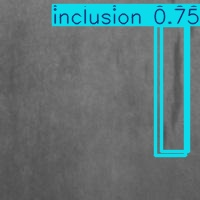
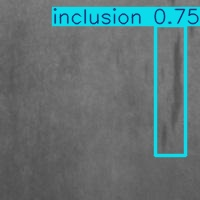
Polish inference pipeline and add documentation

Changed region(s): [[0.78, 0.12, 0.96, 0.78], [0.24, 0.0, 1.0, 0.06]]

diff --git a/src/predict.py b/src/predict.py
@@ -9,7 +9,8 @@ def run_inference(
     image_path: str,
     model_path: str = "models/yolov8s_neu_det_best.pt",
     output_dir: str = "results/inference_samples",
-    conf: float = 0.25
+    conf: float = 0.25,
+    iou: float = 0.45
 ):
     image_path = Path(image_path)
     model_path = Path(model_path)
@@ -28,6 +29,7 @@ def run_inference(
     results = model.predict(
         source=str(image_path),
         conf=conf,
+        iou=iou,
         imgsz=640,
         save=False,
         verbose=False
@@ -57,6 +59,21 @@ def run_inference(
             ]
         })
 
+    detections = sorted(
+        detections,
+        key=lambda item: item["confidence"],
+        reverse=True
+    )
+
+    class_counts = {}
+
+    for det in detections:
+        class_name = det["class_name"]
+        class_counts[class_name] = class_counts.get(class_name, 0) + 1
+
+    inspection_status = "DEFECT_DETECTED" if len(detections) > 0 else "NO_DEFECT_DETECTED"
+    top_detection = detections[0] if detections else None
+
     annotated_image = result.plot()
 
     output_image_path = output_dir / f"{image_path.stem}_prediction.jpg"
@@ -65,11 +82,19 @@ def run_inference(
     cv2.imwrite(str(output_image_path), annotated_image)
 
     prediction_result = {
+        "project": "Smart Factory AI Inspector",
+        "image_name": image_path.name,
         "image_path": str(image_path),
         "model_path": str(model_path),
         "confidence_threshold": conf,
+        "iou_threshold": iou,
+        "inspection_status": inspection_status,
         "num_detections": len(detections),
-        "detections": detections
+        "class_counts": class_counts,
+        "top_detection": top_detection,
+        "detections": detections,
+        "output_image_path": str(output_image_path),
+        "output_json_path": str(output_json_path)
     }
 
     with open(output_json_path, "w", encoding="utf-8") as f:
@@ -78,11 +103,15 @@ def run_inference(
     print("\n=== Smart Factory AI Inspector Prediction ===")
     print(f"Image: {image_path}")
     print(f"Model: {model_path}")
+    print(f"Confidence threshold: {conf}")
+    print(f"IoU threshold: {iou}")
+    print(f"Inspection status: {inspection_status}")
     print(f"Detections: {len(detections)}")
 
     if len(detections) == 0:
         print("Result: No defect detected.")
     else:
+        print("\nDetected defects:")
         for i, det in enumerate(detections, start=1):
             print(
                 f"{i}. {det['class_name']} | "
@@ -126,11 +155,19 @@ if __name__ == "__main__":
         help="Confidence threshold"
     )
 
+    parser.add_argument(
+        "--iou",
+        type=float,
+        default=0.45,
+        help="IoU threshold for duplicate box suppression"
+    )
+
     args = parser.parse_args()
 
     run_inference(
         image_path=args.image,
         model_path=args.model,
         output_dir=args.output,
-        conf=args.conf
+        conf=args.conf,
+        iou=args.iou
     )

diff --git a/docs/inference_pipeline.md b/docs/inference_pipeline.md
@@ -1,0 +1,28 @@
+\# Inference Pipeline
+
+
+
+\## Overview
+
+
+
+This document explains the inference pipeline for the Smart Factory AI Inspector project.
+
+
+
+The inference pipeline takes an input image, runs defect detection using the trained YOLOv8s model, saves an annotated prediction image, and exports the prediction result as a JSON file.
+
+
+
+\## Current Model
+
+
+
+The current inference model is:
+
+
+
+```text
+
+models/yolov8s\_neu\_det\_best.pt
+